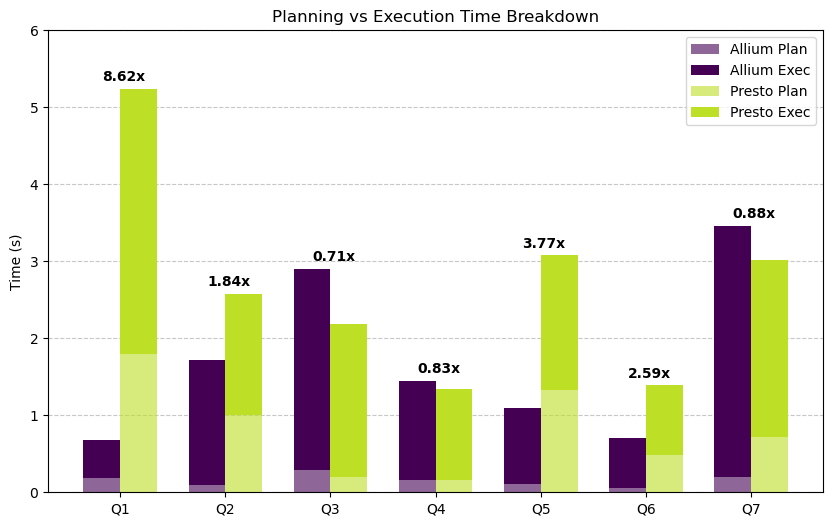
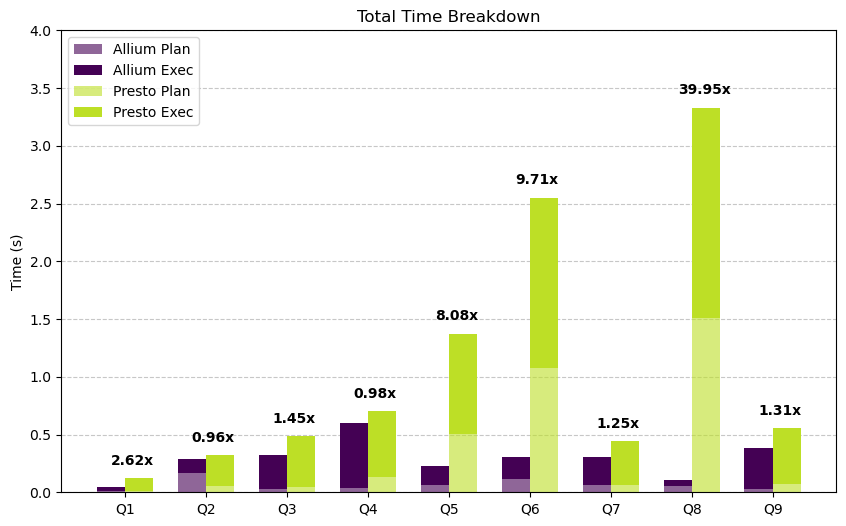
fix(optimizer): Final projection and filter

diff --git a/AlliumSativum.QueryServer/Program.cs b/AlliumSativum.QueryServer/Program.cs
@@ -1,3 +1,4 @@
+using System.Diagnostics;
 using AlliumSativum.Compiler;
 using AlliumSativum.Optimize;
 using AlliumSativum.Parser;
@@ -8,6 +9,7 @@ using AlliumSativum.Shared.Costs;
 using AlliumSativum.Shared.Database;
 using AlliumSativum.Shared.Database.Entities;
 using AlliumSativum.Shared.Migrations;
+using AlliumSativum.Shared.Models.ExecutionPlan.PlanOperators.Utils;
 using AlliumSativum.Token;
 using AlliumSativum.Worker.Sdk;
 using Microsoft.AspNetCore.Mvc;
@@ -85,9 +87,12 @@ app.MapPost("execute-return-plan",
         var executionPlan = await compiler.CompileAsync(query.Query);
 
         var parallelPlan = QueryExecutor.ToParallelStacks(executionPlan.RootOperator);
+        var stopwatch = Stopwatch.StartNew();
         await queryExecutor.ExecuteAsync(parallelPlan);
+        stopwatch.Stop();
 
-        return executionPlan.RootOperator.ToPrettyString(true, true);
+        var pretty = executionPlan.RootOperator.ToPrettyString(true, true);
+        return $"<span>{HtmlClasses.Bold("Total Execution Time")}: {stopwatch.Elapsed.TotalMilliseconds}ms</span><hr>" + pretty;
     });
 
 await app.RunAsync();

diff --git a/AlliumSativum.QueryPlanner/Optimize/Optimizer.cs b/AlliumSativum.QueryPlanner/Optimize/Optimizer.cs
@@ -150,6 +150,8 @@ public sealed class Optimizer
                 };
                 joinPlanRoot.Cost = _costModel.CalculateCost(joinPlanRoot);
             }
+
+            joinPlans[i] = joinPlanRoot;
         }
 
         stopwatch.Stop();